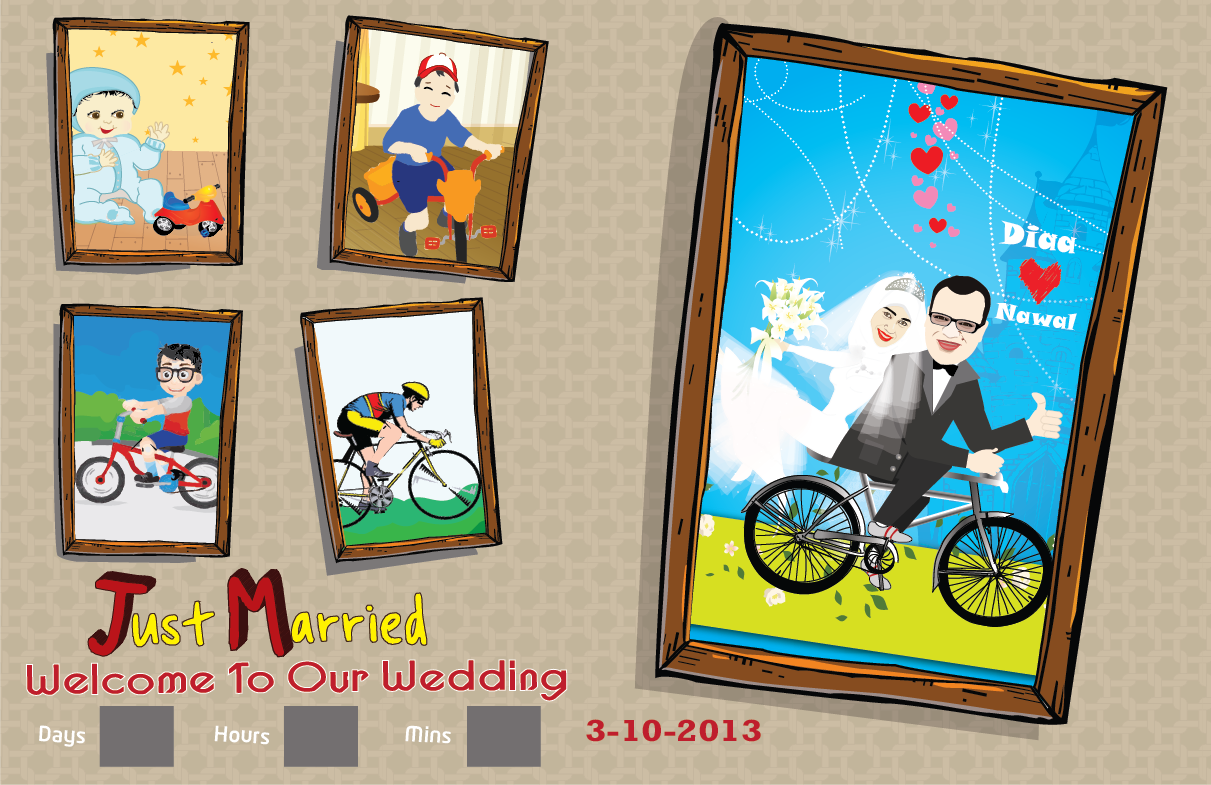
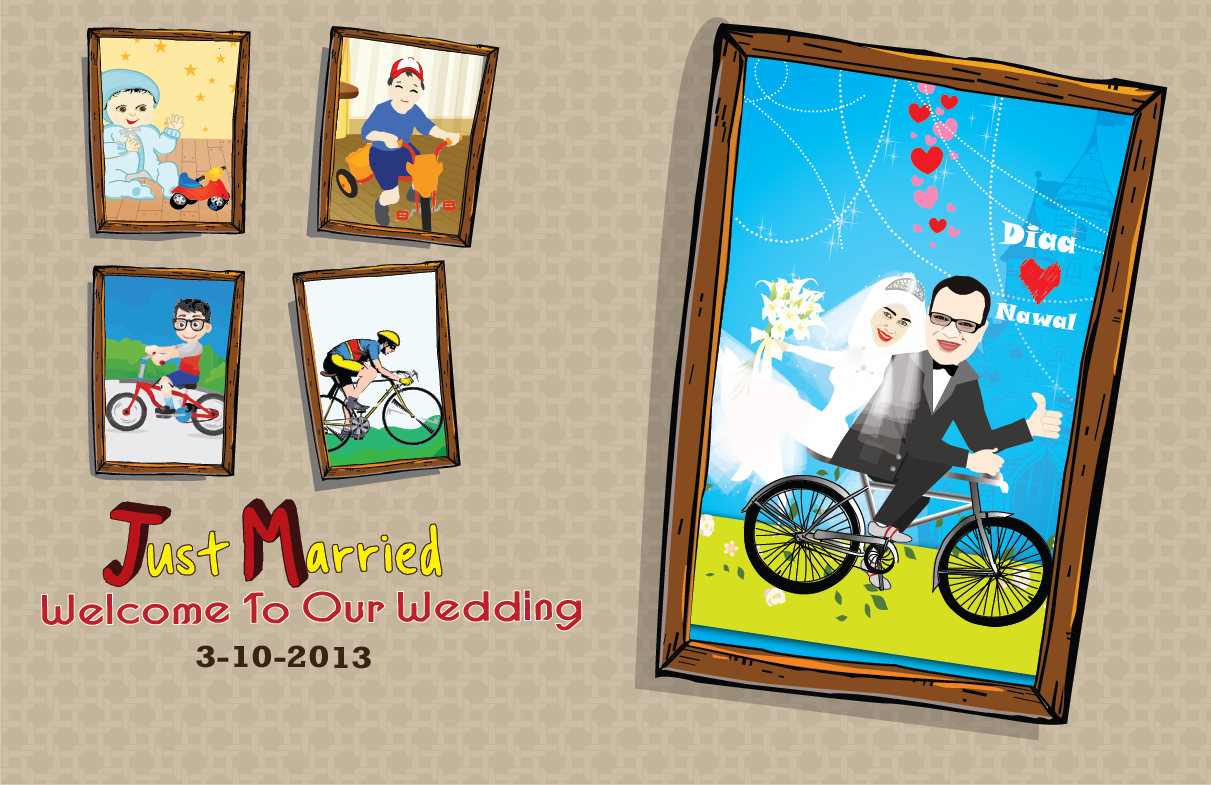
Adding timer

Changed region(s): [[0.0, 0.0, 0.4889, 0.9783], [0.4889, 0.9172, 0.6416, 0.9478]]

diff --git a/app/scripts/controllers/main.js b/app/scripts/controllers/main.js
@@ -3,9 +3,14 @@
   var controller;
 
   controller = function($scope) {
-    $scope.days = 0;
-    $scope.hours = 0;
-    return $scope.minutes = 0;
+    var Base;
+    Base = moment("20131003", "YYYYMMDD").endOf('day');
+    $scope.time = Base.fromNow();
+    return setInterval(function() {
+      return $scope.$apply(function() {
+        return $scope.time = Base.fromNow();
+      });
+    }, 60 * 60 * 1000);
   };
 
   angular.module('marriageApp').controller('MainCtrl', ['$scope', controller]);

diff --git a/app/index.html b/app/index.html
@@ -41,6 +41,7 @@
 
     <script src="bower_components/jquery/jquery.js"></script>
     <script src="bower_components/angular/angular.js"></script>
+    <script src="bower_components/moment/moment.js"></script>
 
         <!-- build:js({.tmp,app}) scripts/scripts.js -->
         <script src="scripts/app.js"></script>

diff --git a/app/views/main.html b/app/views/main.html
@@ -1,11 +1,5 @@
 <div id="background">
   <div id="days">
-    <h1>{{days}}</h1>
-  </div>
-  <div id="hours">
-    <h1>{{hours}}</h1>
-  </div>
-  <div id="minutes">
-    <h1>{{minutes}}</h1>
+    <h1>{{time}}</h1>
   </div>
 </div>

diff --git a/app/styles/main.css b/app/styles/main.css
@@ -29,9 +29,6 @@ body {
 }
 #background div{
     display: inline-block;
-    margin-left: 160px;
-    margin-top: 690px;
-}
-#background div#days{
-    margin-left: 130px;
+    margin-left: 200px;
+    margin-top: 680px;
 }
